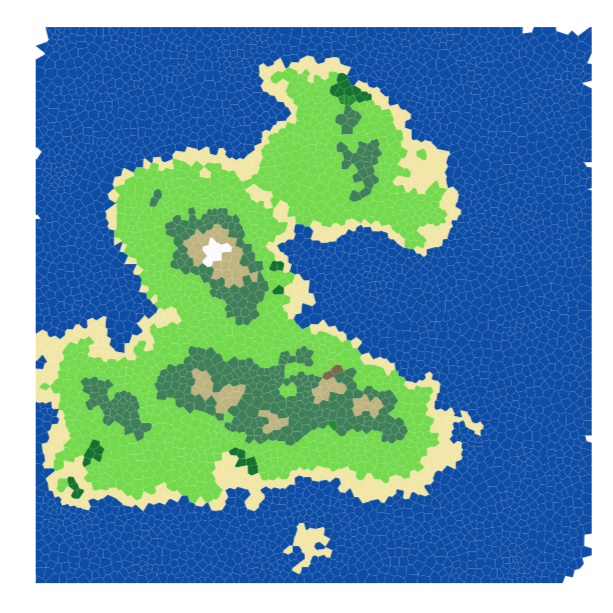
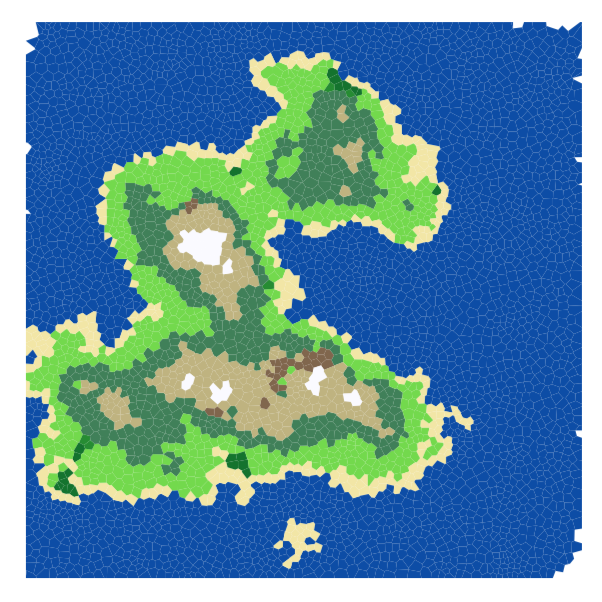
small changes

diff --git a/map.py b/map.py
@@ -188,7 +188,7 @@ class Map:
         scaled_pts = self.points / self.grid_size * self.noise_scale * 1.5
         
         self.moisture = np.array([
-            (pnoise2(x + offset, y + offset, octaves=4) + 1) / 2
+            (pnoise2(x + offset, y + offset, octaves=6) + 1) / 2
             for x, y in scaled_pts
         ])
         
@@ -268,7 +268,7 @@ class Map:
 
     def get_color(self, alt: float, moisture: float) -> tuple:
         """
-        Map altitude and moisture to RGB color using Whittaker biome classification.
+        Map altitude and moisture to RGB color.
         
         Args:
             alt: Elevation value.
